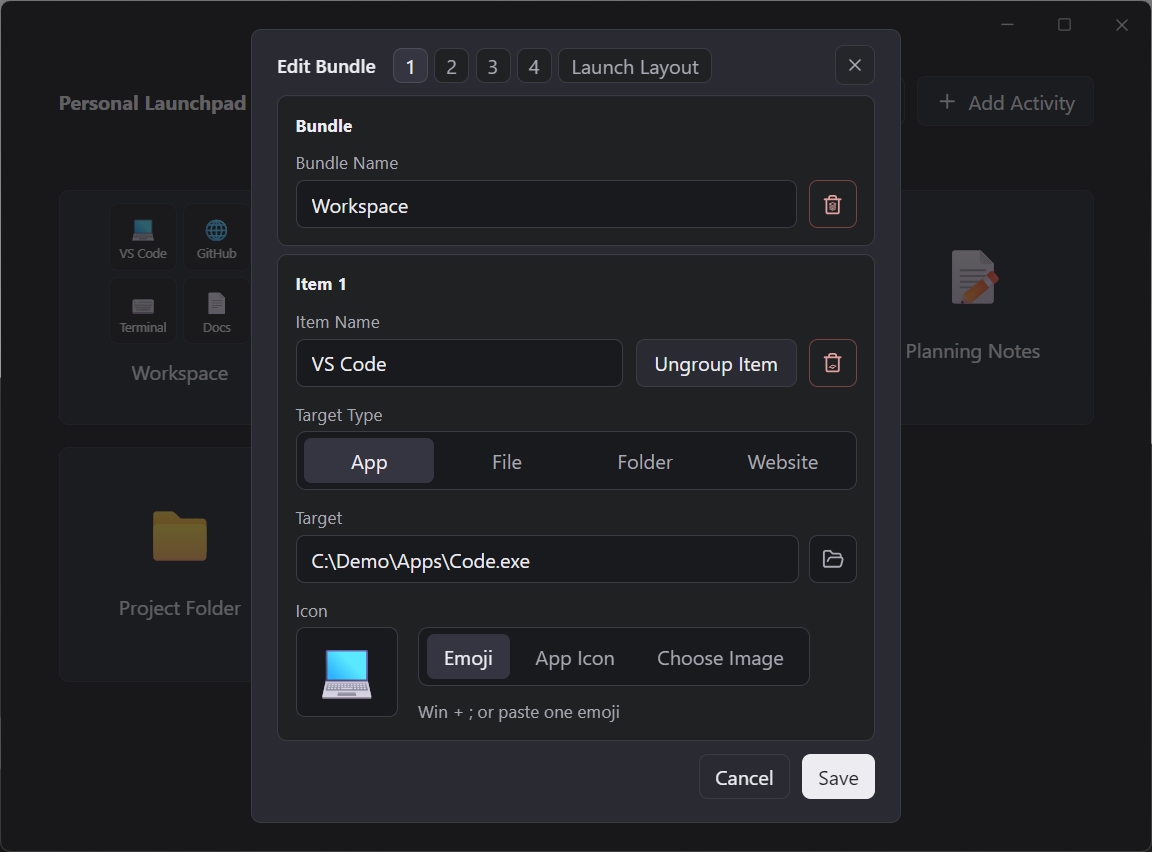
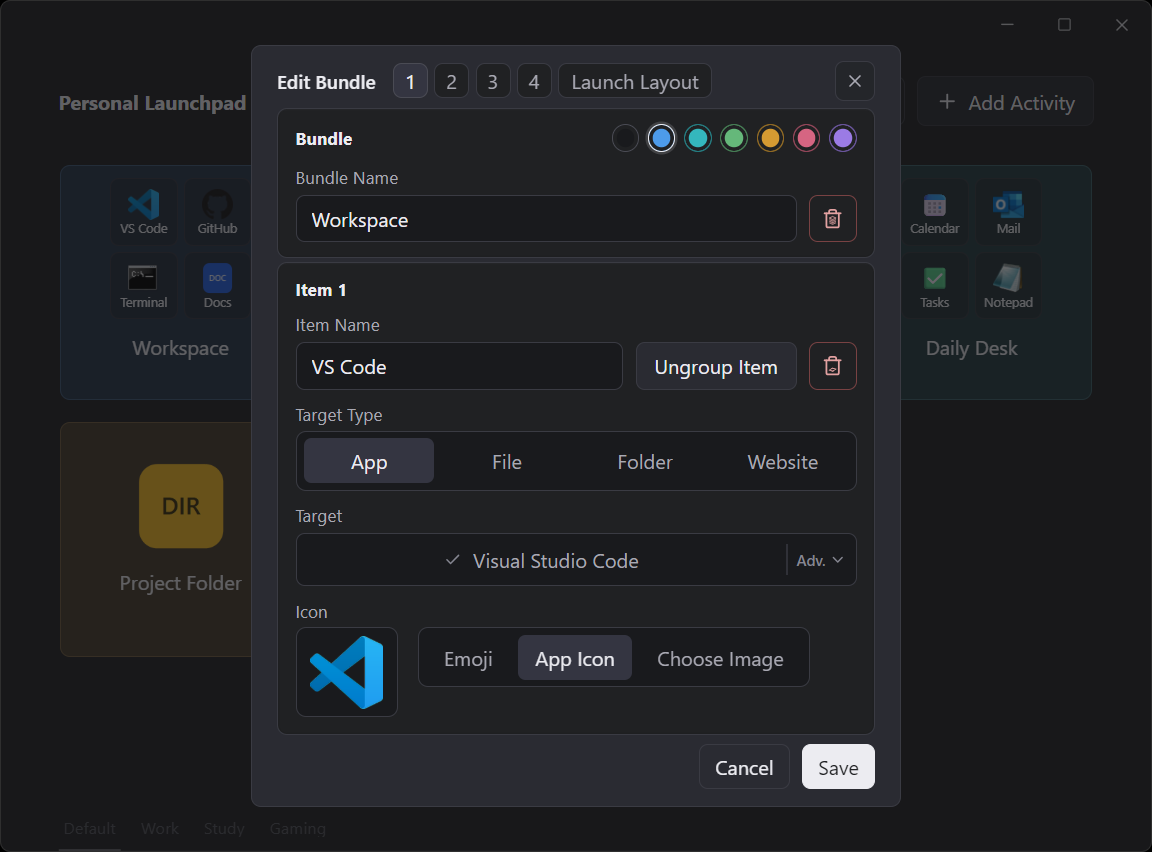
Release v1.0.2

diff --git a/README.md b/README.md
@@ -1,82 +1,69 @@
-# Personal Launchpad
+# Personal Launchpad
 
-Personal Launchpad is a calm Windows desktop launcher for the activities you intentionally choose. It keeps apps, files, folders, websites, and small work bundles one click away without turning your desktop into a dashboard.
+Every day, you open the same apps, folders, files, and websites. Personal Launchpad lets you turn those repeated setups into clean activity tiles and one-click workflows.
 
-The app is local-first: your activities, settings, and cached icons stay on your Windows profile under `%APPDATA%/PersonalLaunchpad/`.
+Personal Launchpad is a calm, local-first Windows desktop launcher for intentional activities. Your activities, settings, and cached icons stay on your Windows profile under `%APPDATA%/PersonalLaunchpad/`.
+
+![Personal Launchpad showing activity bundles and Spaces](docs/assets/screenshots/launchpad-home-spaces.png)
+
+## What You Can Launch
+
+An activity can open an app, installed Windows app, file, folder, or website. A bundle can launch several related items together, so a recurring setup becomes a single click instead of a small pile of repeated clicks.
+
+## Examples
+
+- Study: notes, a research folder, browser resources, and reference sites.
+- Development: editor, project folder, docs, terminal, and GitHub.
+- Gaming: launcher, chat, clips folder, and companion websites.
+- Daily: calendar, notes, task list, mail, and browser resources.
+
+## Features
+
+### Activities
+
+Create focused tiles for the things you intentionally launch. Activities support rich icons, website favicons, extracted app icons, selected image icons, and curated colors for visual grouping.
+
+Quick Drop lets you drag files, folders, executable apps, and `.url` internet shortcuts onto empty launchpad space to create activities quickly. Paths pasted from Windows "Copy as path" are normalized automatically when the whole target is wrapped in quotes.
+
+### Bundles
+
+Bundles group related activities so you can launch individual items or the whole workflow. Create bundles from the activity form, or turn on Reorder Mode and `Ctrl`-drag one tile onto another to merge them.
+
+Bundle colors stay independent from child item colors. If a colored item is ungrouped later, its item color is preserved.
+
+![Personal Launchpad bundle editor](docs/assets/screenshots/bundle-editor.png)
+
+### Spaces
+
+Organize your activities into contexts such as Work, Study, Gaming, or Daily. Use the bottom Spaces strip to switch contexts, and right-click a Space label to create, rename, or delete Spaces.
+
+### Reorder Mode
+
+Reorder Mode is for shaping the launchpad: move tiles, merge tiles into bundles, delete targeted tiles or bundle items, move tiles across Spaces, and move bundle child items out as standalone activities.
+
+![Personal Launchpad Reorder Mode with Spaces](docs/assets/screenshots/spaces-reorder-mode.png)
+
+### Launch Layouts
+
+Launch Layouts arrange windows for whole-bundle launches on Windows. Place bundle items into a visual workspace, enable the layout, and Personal Launchpad will best-effort open and position those windows when the whole bundle launches.
+
+Launch Layouts work best when the target windows are not already open.
+
+![Personal Launchpad Launch Layout editor](docs/assets/screenshots/launch-layout-editor.png)
+
+### Hotkey and Startup
+
+Summon Personal Launchpad from anywhere with the Global Hotkey, defaulting to `Ctrl+Alt+Space`. The shortcut is editable from Settings.
+
+Personal Launchpad supports Windows startup launch, Minimize to system tray, Open to system tray on startup, and single-instance behavior so opening it again focuses the existing window.
+
+![Personal Launchpad settings for Windows, Shortcuts, and Spaces](docs/assets/screenshots/settings-shortcuts-spaces.png)
 
 ## Download
 
 Download the current Windows installer from the [GitHub Releases](https://github.com/MartinMans/personal-launchpad/releases) page.
 
-The current release context is `v1.0.1`. Installer files are attached to GitHub Releases and are not committed to this repository.
-
-## Screenshots
-
-Main launcher in dark theme:
-
-![Personal Launchpad main launcher in dark theme](docs/assets/screenshots/launchpad-home-dark.png)
-
-Bundle editing:
-
-![Personal Launchpad bundle editor](docs/assets/screenshots/bundle-editor.png)
-
-Launch Layout editor:
-
-![Personal Launchpad Launch Layout editor](docs/assets/screenshots/launch-layout-editor.png)
-
-Reorder mode:
-
-![Personal Launchpad reorder mode](docs/assets/screenshots/reorder-mode.png)
-
-Settings in light theme:
-
-![Personal Launchpad settings dialog in light theme](docs/assets/screenshots/settings-light-theme.png)
-
-## Features
-
-- Launch apps, files, folders, and websites from clean activity tiles.
-- Choose App targets from either an executable path or installed Windows apps.
-- Drop files, folders, and apps onto empty launchpad space to create activities quickly.
-- Group related items into bundles, then launch individual bundle items or the whole bundle.
-- Arrange whole-bundle launches with Windows Launch Layouts.
-- Use rich icons: emoji, selected image files, website favicons, and extracted app icons.
-- Add curated tile colors to visually group activities and bundles.
-- Reorder tiles with a focused reorder mode.
-- Merge tiles into bundles while reordering, with a temporary undo.
-- Edit bundle items, reorder items inside a bundle, and ungroup items back into standalone tiles.
-- Choose Dark, Light, or System Default appearance.
-- Launch Personal Launchpad when Windows starts, enabled by default for new installs.
-- Minimize Personal Launchpad to the Windows system tray, enabled by default for new installs.
-- Keep all user data local.
-
-## Common Workflows
-
-Create an activity:
-
-1. Select `Add Activity`.
-2. Choose the target type: app, file, folder, or website.
-3. Pick or enter the target. For apps, choose either an executable or an installed app.
-4. Choose an icon source and optional tile color.
-5. Save the activity.
-
-File targets can use filesystem paths or URI/protocol links such as `obsidian://open?vault=Scratch`. Executable app targets support launch arguments in Advanced; installed Windows app IDs do not support arguments in this version.
-
-Create a bundle:
-
-1. Turn on reorder mode.
-2. Hold `Ctrl` while dragging one tile onto another.
-3. Name the new bundle.
-4. Edit the bundle to add, reorder, or ungroup items.
-
-Use Launch Layouts:
-
-1. Edit a bundle.
-2. Open `Launch Layout`.
-3. Turn the layout on.
-4. Place bundle items into the workspace.
-5. Launch the whole bundle to open and arrange the selected windows.
-
-Launch Layouts are Windows-only and best-effort. They work best when the target windows are not already open.
+The current release context is `v1.0.2`. Installer files are attached to GitHub Releases and are not committed to this repository.
 
 ## Release Notes
 
@@ -87,3 +74,4 @@ See [CHANGELOG.md](CHANGELOG.md) for release history.
 Personal Launchpad is proprietary software.
 
 This public repository provides product information, screenshots, release notes, and links to installer downloads. It does not grant permission to copy, modify, redistribute, reverse engineer, or reuse the application or its assets except as expressly allowed in [LICENSE.md](LICENSE.md).
+

diff --git a/CHANGELOG.md b/CHANGELOG.md
@@ -1,13 +1,18 @@
 # Changelog
 
-## 1.0.1
+## 1.0.2
 
-- Added Quick Drop activity creation for files, folders, and executable apps.
-- Enabled startup, minimize-to-tray, and bundle item names by default for new users while preserving existing saved settings.
+- Added Spaces for organizing activities into up to six named contexts, with migration of existing activities into a default Space.
+- Added Quick Drop activity creation for files, folders, executable apps, and `.url` internet shortcuts.
+- Enabled startup, Open to system tray, minimize-to-tray, and bundle item names by default for new users while preserving existing saved settings.
+- Added a configurable Global Hotkey for summoning Personal Launchpad, defaulting to `Ctrl+Alt+Space`, with editable shortcut settings.
+- Added single-instance support so launching Personal Launchpad again focuses the existing app window.
+- Polished Settings organization for Windows, Shortcuts, Spaces, appearance, and bundle display preferences.
 - Added executable app launch arguments in Advanced, including conservative parsing for pasted quoted executable command lines. Installed Windows app IDs do not support arguments.
 - Added File Advanced support for filesystem paths and URI/protocol links such as `obsidian://open?vault=Scratch`.
 - Suppressed the default Chromium/WebView context menu in release builds.
-- Improved reorder mode with bundle child movement, quick delete shortcuts, and tighter tile icon resize behavior.
+- Improved Reorder Mode with bundle child movement, cross-Space moves, quick delete shortcuts, and tighter tile icon resize behavior.
+- Refreshed release documentation and prepared a generic demo profile for updated screenshots.
 
 ## 1.0.0
 
@@ -20,12 +25,11 @@
 - Added rich icon choices with emoji, selected image files, website favicons, extracted app icons, local icon caching, reference-aware cleanup, and safeguards against competing icon resolution updates.
 - Added curated tile colors for activities and bundles with theme-aware tinting; bundle colors remain independent from child item colors, and child item colors are preserved when ungrouped.
 - Added activity bundles with bundle editing, compact item launching, optional item labels, item reordering, item ungrouping, clearer Activity / Bundle / Item terminology, and polished bundle tile interactions.
-- Added reorder mode with visible active state, lightweight drag feedback, tile merging into bundles, temporary merge undo, and cursor behavior that keeps bundle items from implying launch actions while reordering.
+- Added Reorder Mode with visible active state, lightweight drag feedback, tile merging into bundles, temporary merge undo, and cursor behavior that keeps bundle items from implying launch actions while reordering.
 - Added Launch Layouts for whole-bundle launches with a visual layout editor and best-effort Windows positioning, including improved matching for installed app windows.
 - Added custom frameless Windows chrome with native-feeling window controls, drag-to-edge Snap behavior, centered startup, and in-app product identity.
 - Added Dark, Light, and System Default appearance settings.
 - Added launch-at-startup behavior and Minimize to system tray behavior with tray Show and Quit actions; startup, minimize-to-tray, and bundle item names default on for new users while existing saved settings are preserved.
 - Automatically normalizes targets pasted from Windows "Copy as path" by trimming surrounding whitespace and removing one full-value pair of surrounding quotes.
-- Keeps launch arguments unsupported by design; quoted command strings with arguments are not parsed or modified.
 - Fixed NSIS uninstall app-data cleanup for `%APPDATA%/PersonalLaunchpad`.
 - Verified blank first-run behavior with no bundled activity data.
